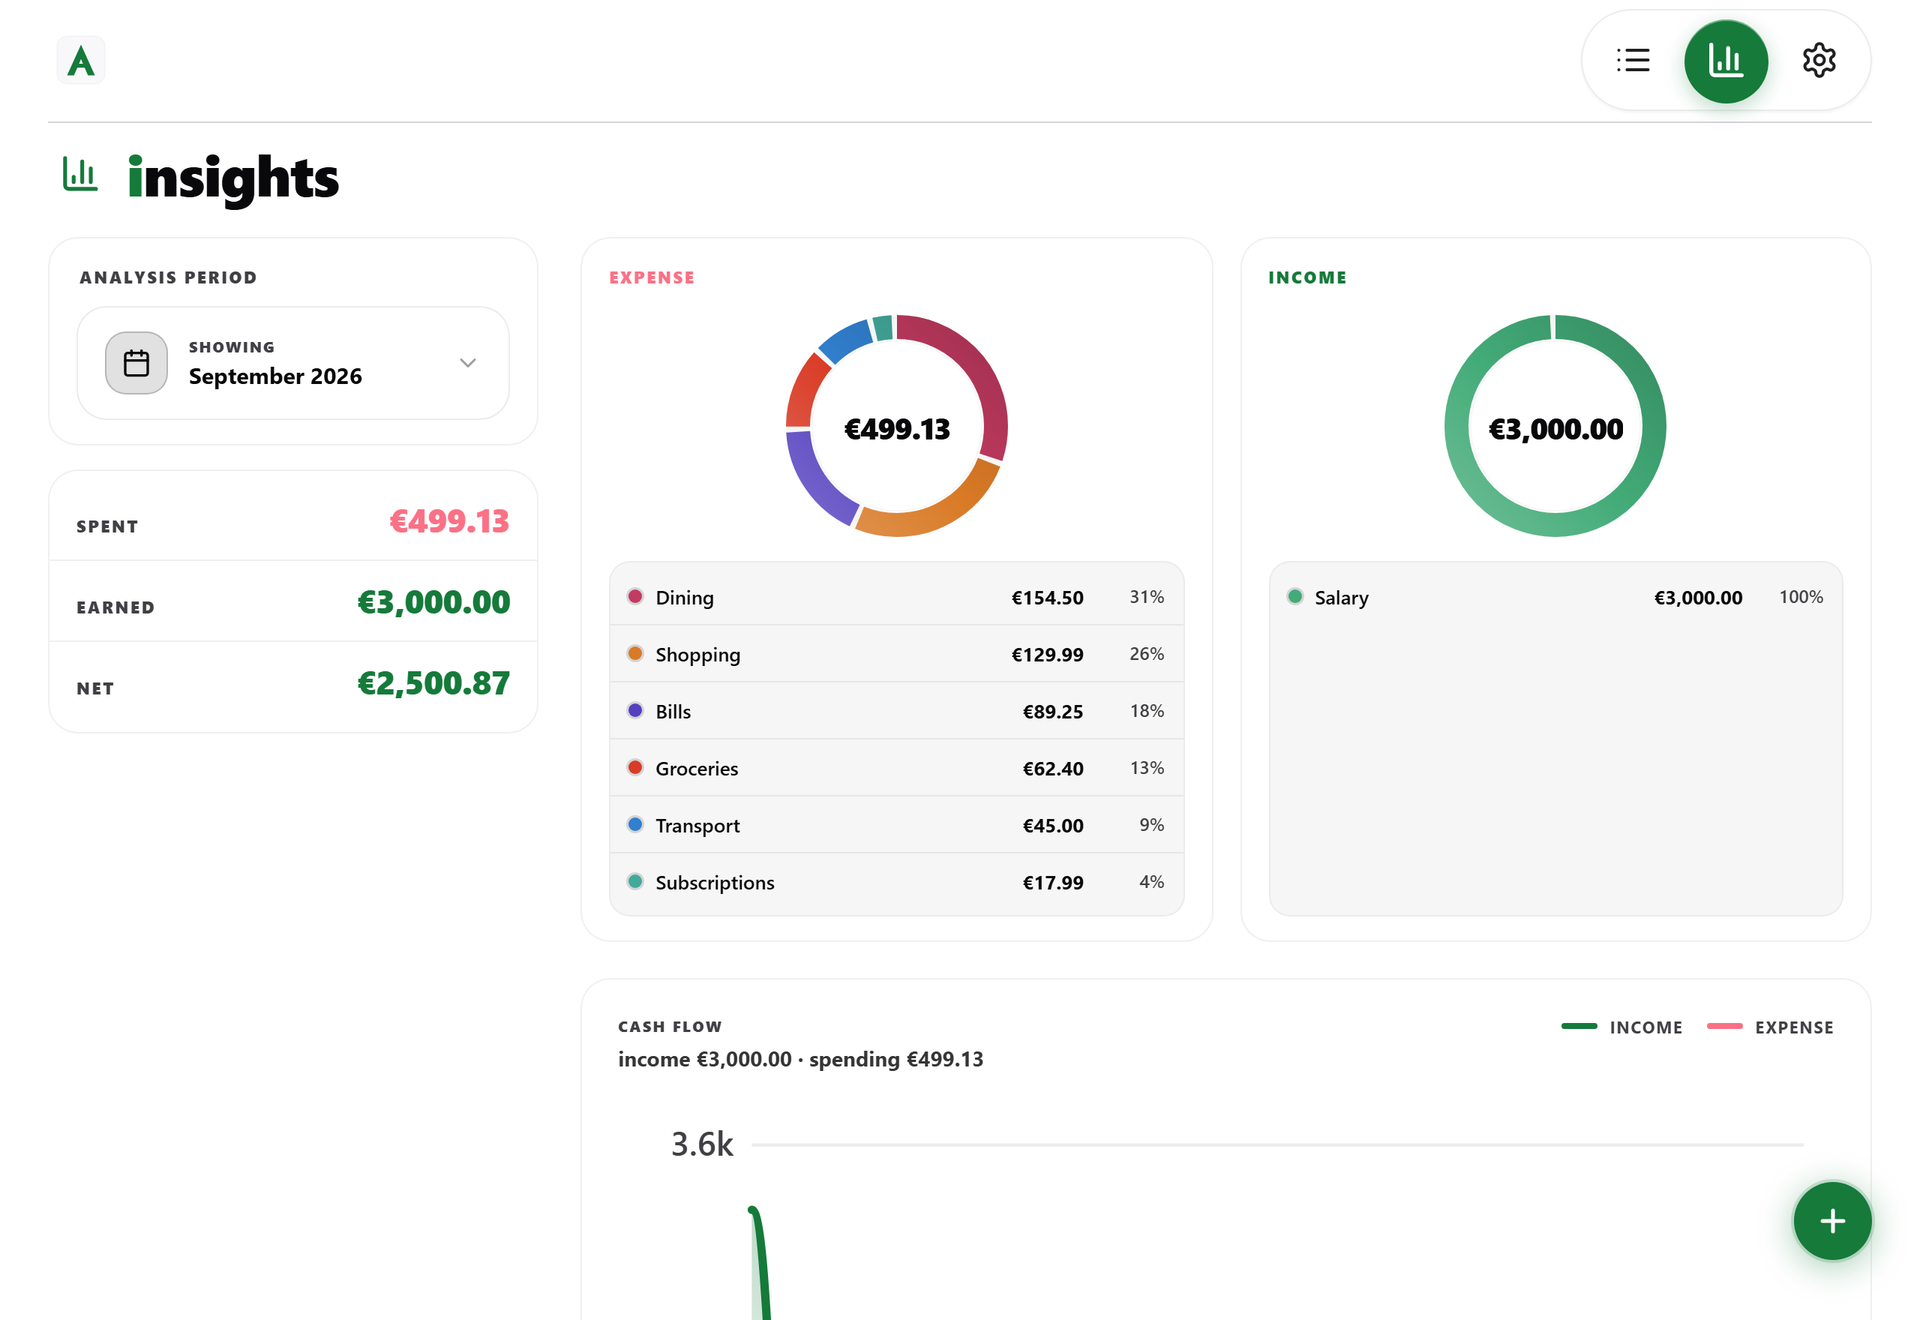
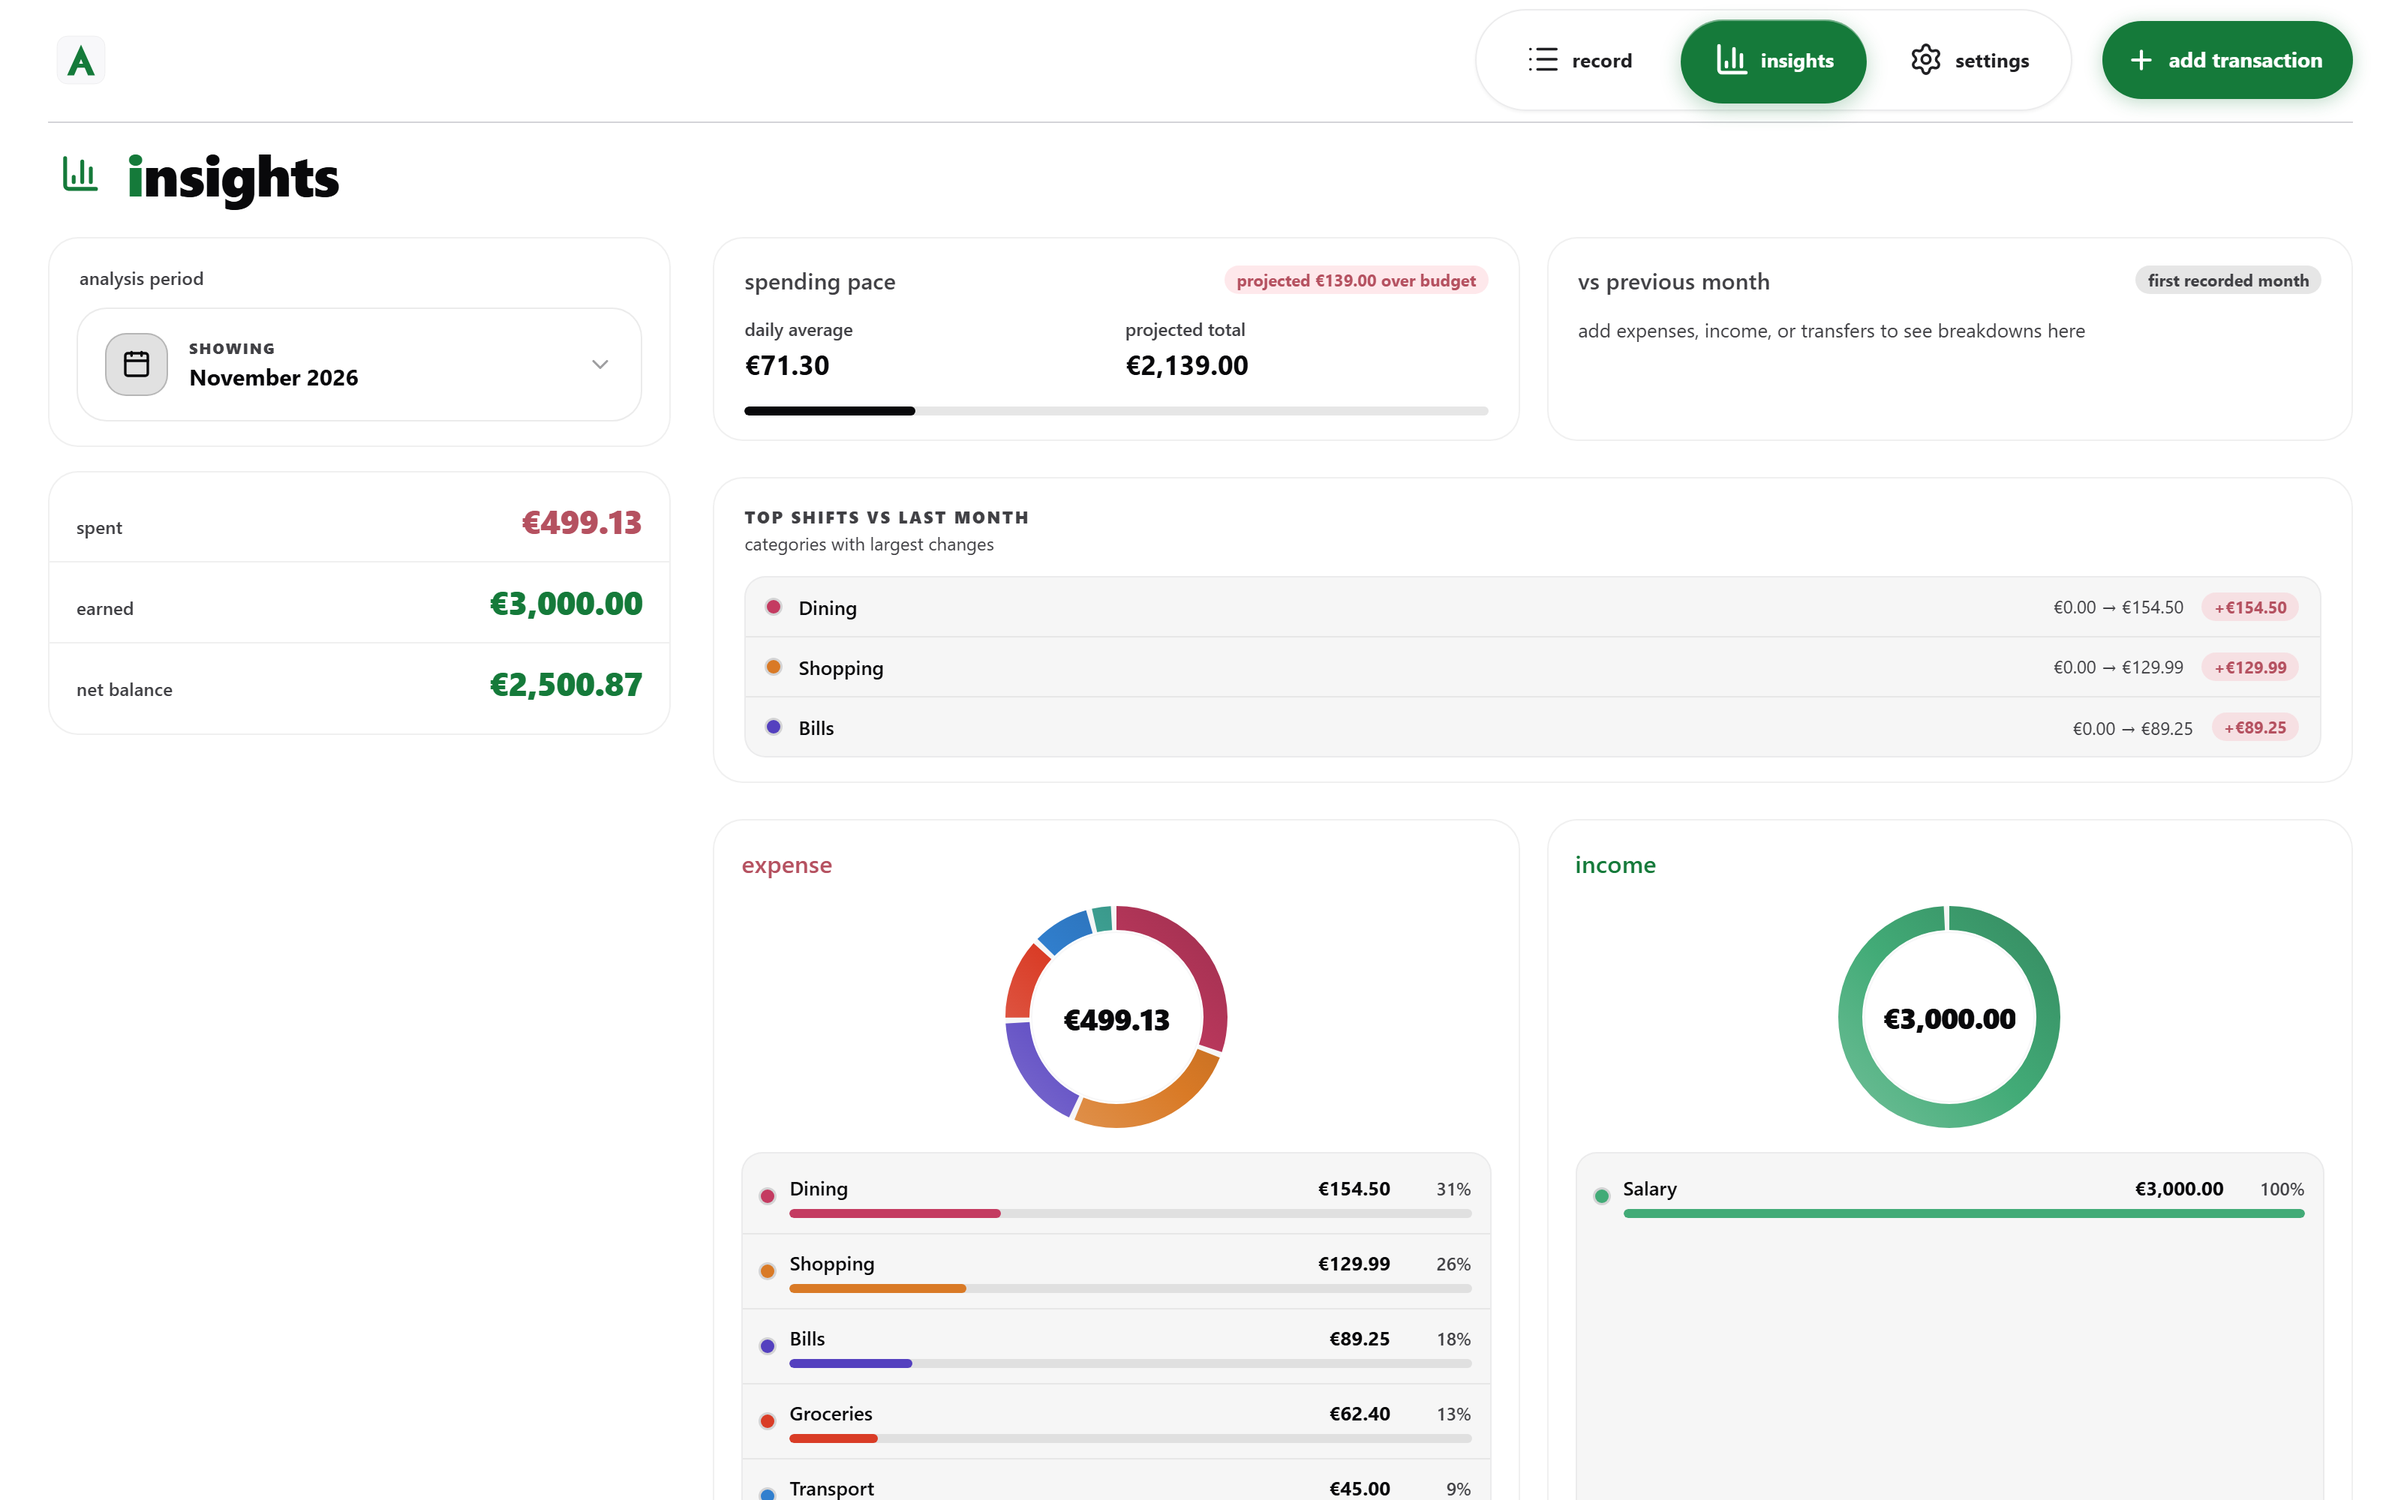
docs: refresh web screenshots and README for the wide-screen layout (#148)
- Recapture the four README web screenshots at 1600x1000 (3200x2000 @2x), wide
  enough for the three-column desktop layout that starts at 1440px; the old 1280px
  captures predated it and still showed the floating add button.
- capture-screenshots.mjs: new viewport, and BASE can point at another dev-server port.
- README: mention the desktop layout and path-aware CI, fix the architecture diagram
  ("Zsd" typo; collection names now match firestorePaths.ts), and document how to
  refresh the screenshots.

diff --git a/README.md b/README.md
@@ -40,7 +40,7 @@ I built Ausgegeben because I wanted a fast, private, and distraction-free tool t
   </picture>
 </p>
 
-*Screenshots are generated automatically from clean demo accounts using local Firebase emulators.*
+*Screenshots are generated automatically from clean demo accounts using local Firebase emulators. The web shots are taken at 1600×1000, where the record page switches to its three-column desktop layout.*
 
 ---
 
@@ -54,6 +54,7 @@ I built Ausgegeben because I wanted a fast, private, and distraction-free tool t
 - **Safe Backup & Restore:** Export and import versioned, integrity-checked JSON backups with automatic safety snapshots before destructive replace operations.
 - **Privacy & Security:** Zero third-party ad networks, no analytics trackers, and strict Firebase security rules that enforce complete account isolation.
 - **Localization & Themes:** Supports English and German, multiple display currencies (EUR, USD, GBP, CHF), and light, dark, and OLED themes.
+- **Built for Every Screen Size:** On the web the layout adapts from a single column on phones to a three-column desktop view (summary, transactions, filters) that keeps the totals and filters in view while you scroll.
 - **Android Reminders:** Configurable daily notification reminders powered by Android WorkManager.
 
 ---
@@ -63,10 +64,10 @@ I built Ausgegeben because I wanted a fast, private, and distraction-free tool t
 | Layer | Technologies | Highlights |
 |---|---|---|
 | **Android Client** | Kotlin, Jetpack Compose, Material 3, Hilt, WorkManager, DataStore | Modern declarative UI, single-activity architecture, offline persistence, and signed release builds. |
-| **Web Client** | React 19, TypeScript, Vite, Zustand | Mobile-first responsive PWA, custom accessible UI components, and fast cold-start performance. |
+| **Web Client** | React 19, TypeScript, Vite, Zustand | Responsive PWA from phone to wide desktop, custom accessible UI components, and fast cold-start performance. |
 | **Backend & Sync** | Firebase Authentication, Cloud Firestore | Serverless Spark architecture; isolated per-user document trees secured by fine-grained Firestore security rules. |
 | **Shared Contracts** | Cross-platform JSON test fixtures | Shared mathematical parity suites (`testdata/money-parity.json`) verify identical rounding and validation logic across Kotlin and TypeScript. |
-| **CI / CD** | GitHub Actions | Automated linting, unit tests, CSS token validation, Android compilation, and release packaging pinned by commit SHAs. |
+| **CI / CD** | GitHub Actions | Automated linting, unit tests, CSS token validation, Android compilation, and release packaging pinned by commit SHAs. Web-only and docs-only pull requests skip the Android build and emulator tests; every tagged release re-runs all of them. |
 
 ---
 
@@ -75,7 +76,8 @@ I built Ausgegeben because I wanted a fast, private, and distraction-free tool t
 ```text
 ┌─────────────────────────┐          ┌─────────────────────────┐
 │     Android Client      │          │     React Web (PWA)     │
-│ (Kotlin, Compose, Hilt) │          │ (TypeScript, Vite, Zsd) │
+│ (Kotlin, Compose, Hilt) │          │  (TypeScript, Vite,     │
+│                         │          │   Zustand)              │
 └────────────┬────────────┘          └────────────┬────────────┘
              │                                    │
              │   Firestore SDK Offline Cache      │
@@ -84,8 +86,11 @@ I built Ausgegeben because I wanted a fast, private, and distraction-free tool t
 │                    Cloud Firestore                           │
 │  users/{uid}/expenses                                        │
 │  users/{uid}/categories                                      │
-│  users/{uid}/recurringTemplates                              │
-│  users/{uid}/safetySnapshots                                 │
+│  users/{uid}/categoryBudgets                                 │
+│  users/{uid}/recurringTransactions                           │
+│  users/{uid}/recurringOccurrences                            │
+│  users/{uid}/settings/preferences                            │
+│  users/{uid}/restoreSnapshot                                 │
 └──────────────────────────────────────────────────────────────┘
 ```
 
@@ -130,6 +135,13 @@ npm test              # Run unit tests (Vitest)
 npm run lint          # TypeScript typecheck
 npm run lint:css      # Validate CSS class token coverage
 npm run build         # Production PWA build
+```
+
+Refresh the README web screenshots from seeded demo data (needs the Firebase emulators running):
+```bash
+node scripts/seed-demo-data.mjs
+npx vite --mode emulator --port 5173      # in a second terminal
+node scripts/capture-screenshots.mjs
 ```
 
 ### Android Setup
